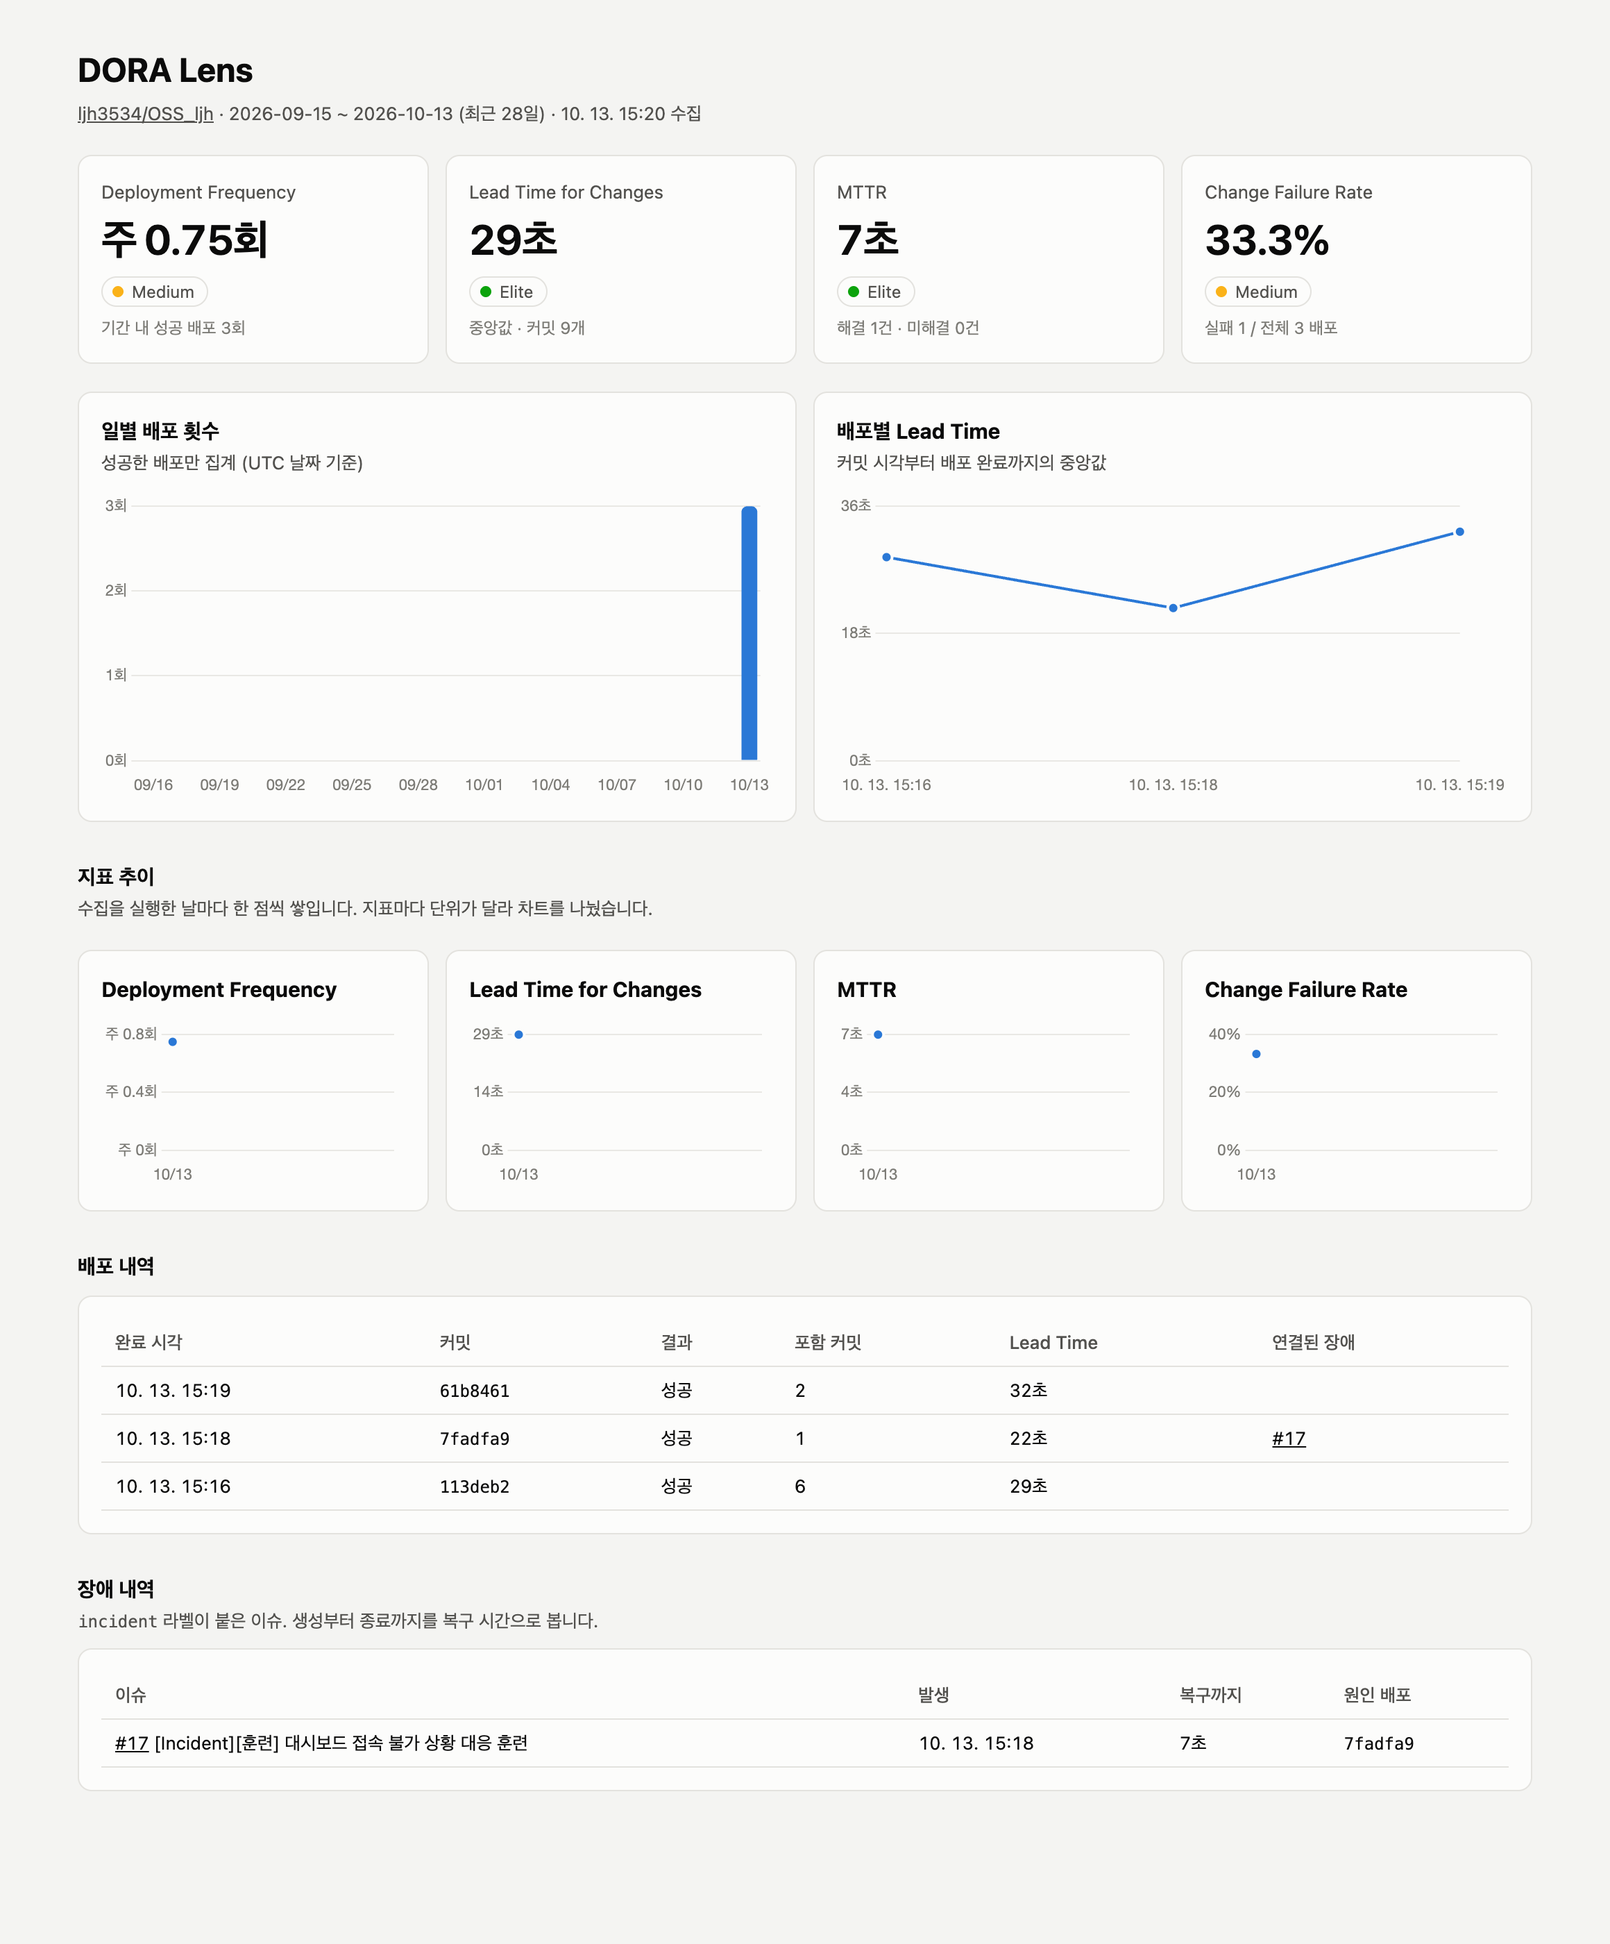
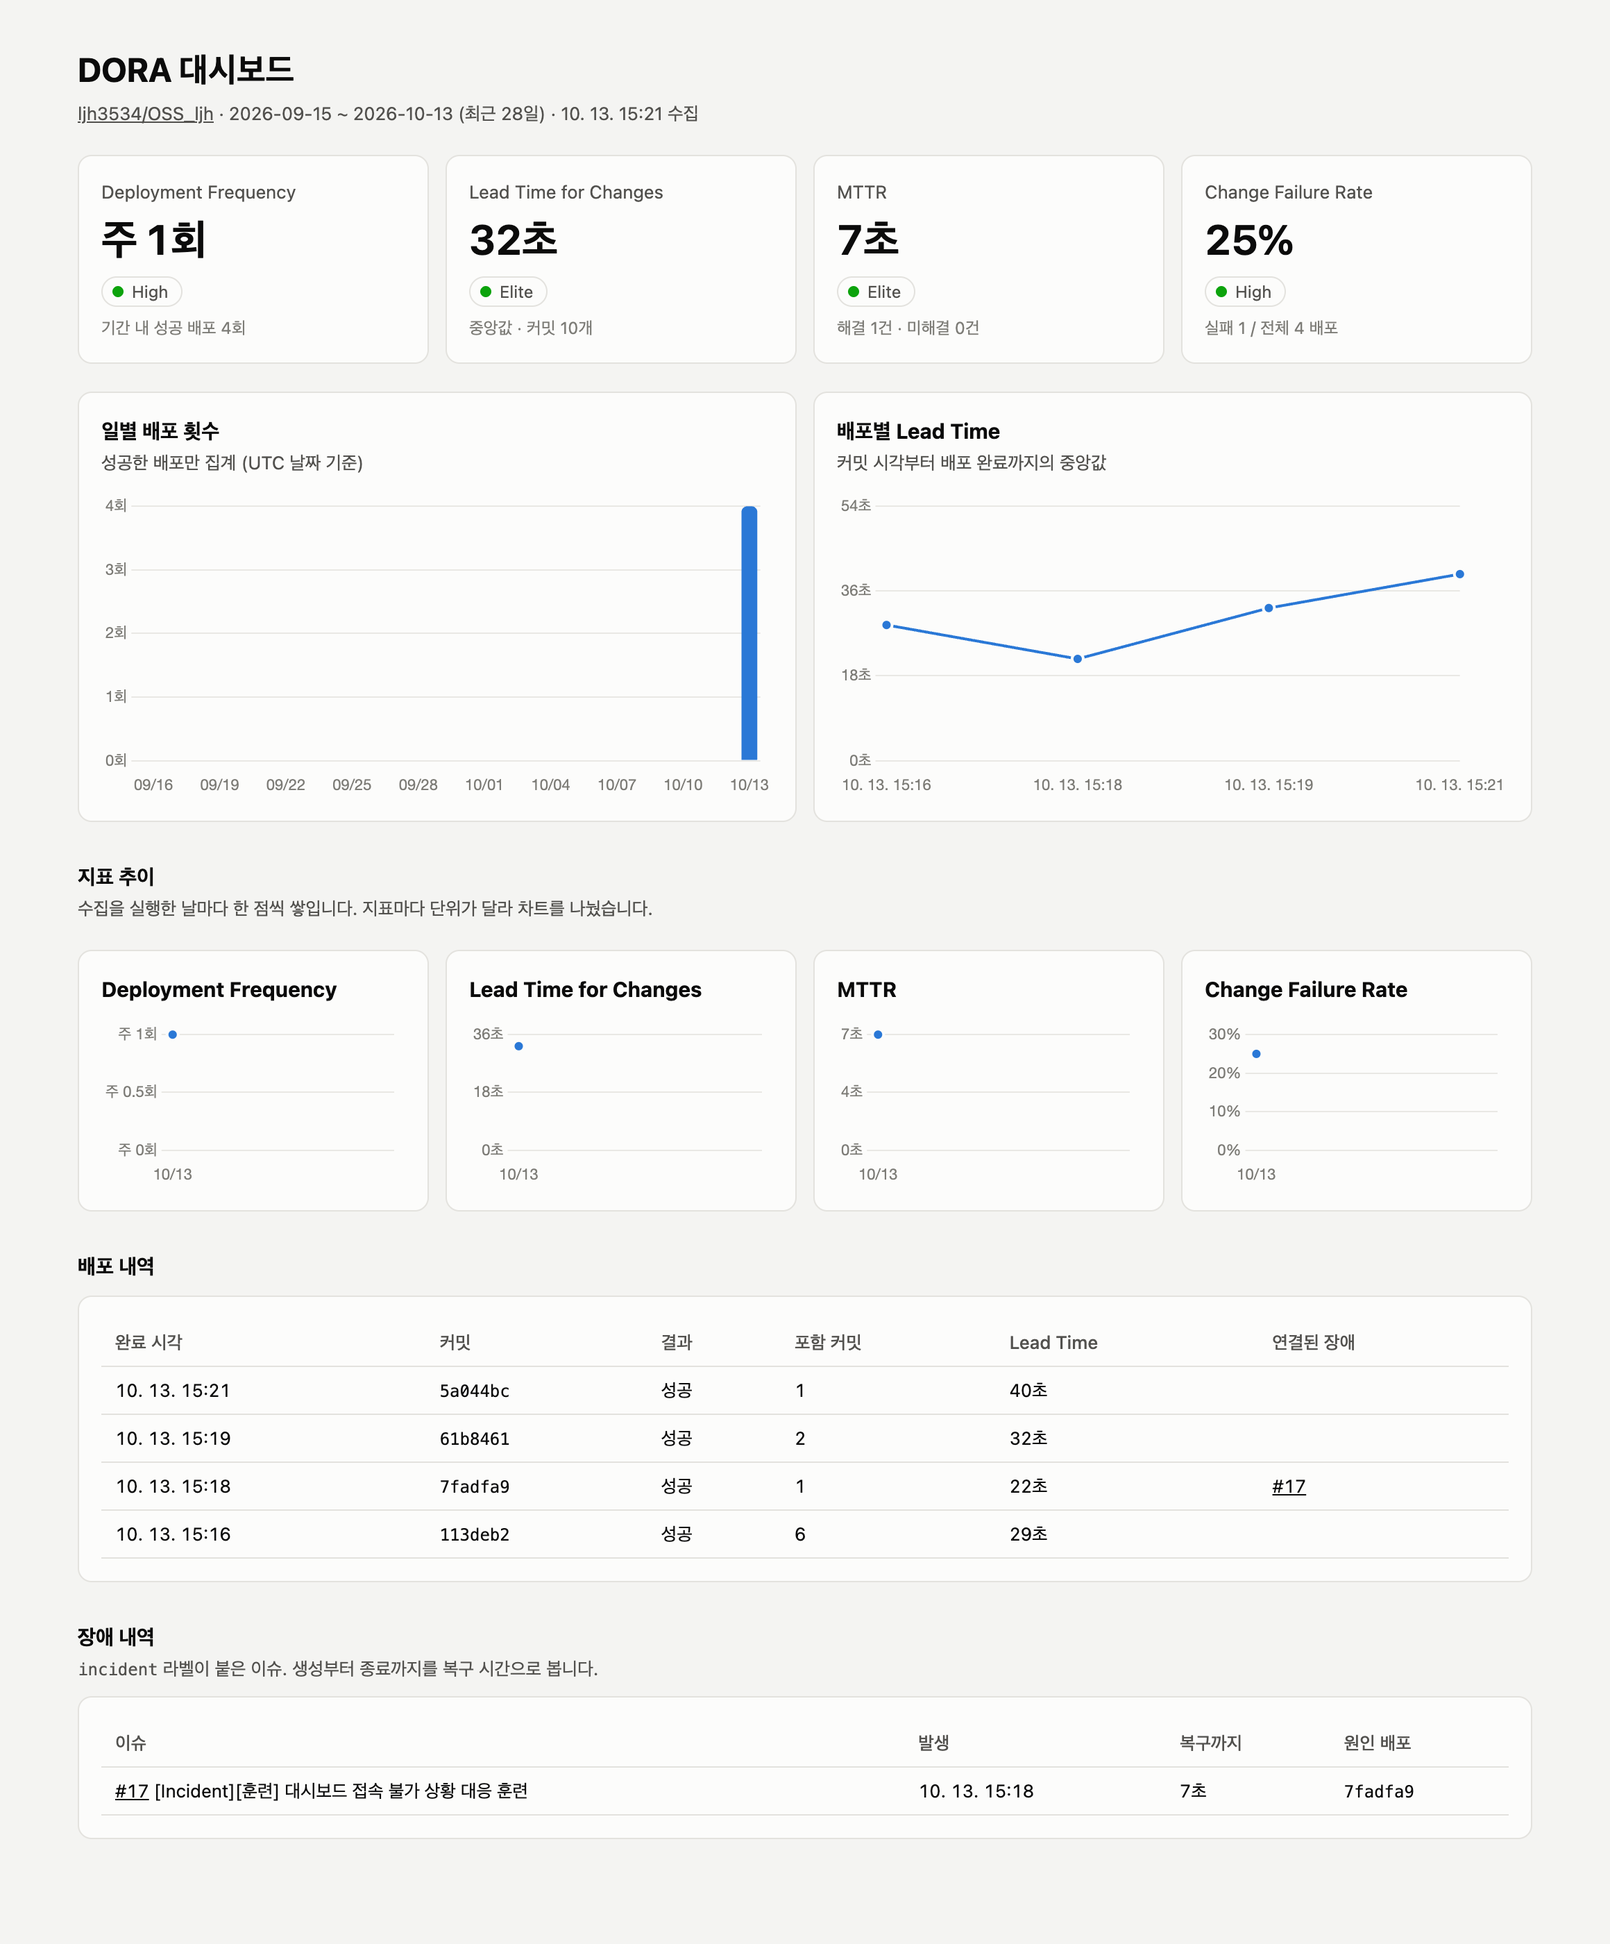
docs: 학기 프로젝트 주제를 TimeFit(시간표 자동 조합 도우미)으로 변경
제안서를 새로 작성하고, README·주차별 문서·대시보드 제목을 새 주제에 맞게 정리했다.
DORA 지표 수집은 TimeFit 개발 저장소를 측정하는 용도로 유지한다.

diff --git a/docs/index.html b/docs/index.html
@@ -3,7 +3,7 @@
 <head>
 <meta charset="utf-8">
 <meta name="viewport" content="width=device-width, initial-scale=1">
-<title>DORA Lens</title>
+<title>DORA 대시보드</title>
 <style>
   :root {
     color-scheme: light;
@@ -55,7 +55,7 @@
 </head>
 <body>
 <main>
-  <h1>DORA Lens</h1>
+  <h1>DORA 대시보드</h1>
   <p class="meta" id="meta">지표를 불러오는 중…</p>
 
   <div class="grid kpis" id="kpis"></div>

diff --git a/week01/PROPOSAL.md b/week01/PROPOSAL.md
@@ -2,52 +2,58 @@
 
 ## 프로젝트명
 
-**DORA Lens** — GitHub 저장소의 DORA 지표 자동 수집·시각화 도구
+**TimeFit** — 시간표 자동 조합 도우미
 
 ## 문제정의
 
-- 소규모 팀이나 학생 프로젝트는 "우리가 얼마나 자주, 얼마나 안정적으로 배포하고 있는가"를 수치가 아니라 감으로 판단한다. 그래서 회고에서 개선할 지점을 구체적으로 짚기 어렵다.
-- 배포 성과를 재는 표준 지표로 DORA 4대 지표(Lead Time for Changes, Deployment Frequency, MTTR, Change Failure Rate)가 있지만, 이를 측정해 주는 상용 도구는 비용과 초기 설정 부담이 커서 작은 팀이 쓰기 어렵다.
-- 계산에 필요한 데이터(커밋, 배포 기록, 이슈)는 이미 GitHub에 쌓여 있다. 다만 여러 API에 흩어져 있어 직접 모으고 계산해야 한다.
+- 수강신청 전 학생들은 듣고 싶은 과목과 분반을 놓고 시간이 겹치지 않는 조합을 손으로 맞춰 본다. 과목이 5~6개, 과목마다 분반이 2~4개만 되어도 경우의 수가 수백 가지라 빠뜨리거나 실수하기 쉽다.
+- "오전 9시 수업은 피하고 싶다", "금요일은 공강이었으면 좋겠다", "강의실 이동이 짧았으면 좋겠다" 같은 조건까지 따지면 머릿속 계산으로는 사실상 최적의 시간표를 찾을 수 없다.
+- 학교 포털은 과목 검색과 신청만 제공하고, 여러 후보 조합을 비교하는 기능은 없다. 학생들은 엑셀이나 종이에 시간표를 여러 장 그려 비교한다.
 
-**목표**: 저장소에 워크플로우 파일 하나만 추가하면 DORA 지표가 주기적으로 수집되고, 대시보드와 주간 보고서로 바로 확인할 수 있게 한다. 별도 서버나 유료 서비스 없이 GitHub Actions와 GitHub Pages만으로 동작해야 한다.
+**목표**: 듣고 싶은 과목과 분반, 원하는 조건을 입력하면 시간이 겹치지 않는 시간표 조합을 모두 찾아 선호도 순으로 보여 주는 웹앱을 만든다. 로그인이나 서버 없이 브라우저만으로 동작해 누구나 바로 쓸 수 있게 한다.
 
 ## 핵심 기능 3개
 
-1. **지표 자동 수집** — GitHub Actions가 스케줄에 따라 GitHub REST API(Deployments, Commits, Issues)를 조회해 DORA 4대 지표를 계산하고 JSON으로 저장한다.
-2. **대시보드 시각화** — 수집된 JSON을 Chart.js로 그려 GitHub Pages에 게시한다. 현재 값, DORA 성능 등급(Elite/High/Medium/Low), 기간별 추이를 한 화면에서 본다.
-3. **주간 보고서 자동 생성** — 매주 지표 요약과 전주 대비 변화를 Markdown 보고서로 만들어 저장소에 커밋하고, 원본 데이터는 워크플로우 아티팩트로 보관한다.
+1. **과목·분반 입력** — 과목명, 분반, 요일·교시, 강의실을 직접 입력하거나 CSV로 한 번에 불러온다. 입력한 목록은 브라우저에 저장된다.
+2. **충돌 없는 조합 생성** — 과목별로 분반 하나씩을 고른 모든 조합 중 시간이 겹치지 않는 것만 찾아낸다. 필수 과목과 선택 과목을 구분해, 학점 범위 안에서 가능한 조합을 만든다.
+3. **조건 기반 정렬·비교** — 공강 요일, 오전 수업 회피, 연강 최소화 등 조건에 점수를 매겨 조합을 정렬하고, 후보 시간표를 나란히 비교한 뒤 이미지로 저장하거나 링크로 공유한다.
 
 ## 기술 스택
 
 | 영역 | 기술 | 선택 이유 |
 |---|---|---|
-| 수집·계산 | Python 3 (표준 라이브러리) | 의존성 설치 없이 어떤 러너에서도 실행 가능 |
-| 자동화 | GitHub Actions | 스케줄 실행, 아티팩트 저장, 저장소 권한 토큰 기본 제공 |
-| 데이터 원천 | GitHub REST API | 배포·커밋·이슈 데이터를 추가 계측 없이 사용 |
-| 시각화 | Chart.js, HTML/CSS | 빌드 과정 없는 정적 페이지로 충분 |
+| 프론트엔드 | TypeScript, Vite, 바닐라 DOM | 빌드가 빠르고 정적 파일로 배포 가능 |
+| 조합 엔진 | TypeScript 모듈 (UI와 분리) | 단위 테스트와 npm 패키지 배포가 쉬움 |
+| 저장 | 브라우저 localStorage, URL 공유 | 서버·로그인 없이 동작 |
+| 테스트 | Vitest, Playwright | 조합 로직 단위 테스트, 화면 E2E 테스트 |
+| CI/CD | GitHub Actions | 테스트·빌드·배포 자동화, DORA 지표 수집 |
 | 호스팅 | GitHub Pages | 무료, 저장소와 같은 곳에서 배포 이력 관리 |
 | 계획·추적 | GitHub Issues / Projects / Milestones | 백로그와 스프린트를 코드와 같은 곳에서 관리 |
 
 ## 16주 마일스톤 초안
 
-| 주차 | 목표 | 산출물 |
-|---|---|---|
-| 1 | 개발 환경 설정, 프로젝트 제안 | 저장소, 제안서 |
-| 2 | DORA 지표 정의 및 수집 프로토타입 | 수집 스크립트, 워크플로우, 대시보드 시안 |
-| 3 | 계획·추적 체계 구축 | GitHub Project, 백로그, 라벨, 마일스톤 |
-| 4 | 수집 로직 정교화 (배포–커밋 매핑, 봇 커밋 제외) | Lead Time 계산 개선 |
-| 5 | 장애(incident) 추적 흐름 정리 | 이슈 템플릿 연동, MTTR/CFR 계산 검증 |
-| 6 | 단위 테스트 및 CI 구성 | 테스트 코드, CI 워크플로우 |
-| 7 | 대시보드 1차 완성 | 추이 차트, 등급 표시, 표 보기 |
-| 8 | **중간 점검** — 자기 저장소에 4주 이상 적용한 결과 회고 | 중간 보고서 |
-| 9 | 다중 저장소 수집 지원 | 설정 파일, 저장소별 비교 화면 |
-| 10 | 재사용 가능한 Action으로 패키징 | `action.yml`, 사용 예시 |
-| 11 | 지표 악화 알림 | 임계값 설정, 이슈 자동 생성 |
-| 12 | 스프린트 지표(Cycle Time, Velocity, Burndown) 통합 | 분석 스크립트, 차트 |
-| 13 | 다른 공개 저장소에 적용해 검증 | 적용 사례 2건 |
-| 14 | 문서화 | 사용 가이드, CONTRIBUTING |
-| 15 | 버그 수정 및 안정화 | v1.0 릴리스 후보 |
-| 16 | **최종 발표** | v1.0 릴리스, 발표 자료 |
+수업의 주차별 실습 주제를 TimeFit 개발에 그대로 적용하는 방향으로 계획했다.
 
-1학기에는 단일 저장소 기준으로 수집부터 보고서까지 완성하는 데 집중하고(1~8주), 이후 다중 저장소·알림·패키징으로 확장한다(9~16주).
+| 주차 | 목표 | 수업 실습과의 연결 |
+|---|---|---|
+| 1 | 개발 환경 설정, 프로젝트 제안 | 개발 환경 설정 및 프로젝트 제안 |
+| 2 | 배포 파이프라인과 DORA 지표 자동 수집 | DORA 메트릭 수집 자동화 |
+| 3 | 백로그·스프린트 구성 | GitHub Projects 계획·추적 |
+| 4 | 과목 입력 화면과 조합 엔진 MVP를 PR 단위로 개발 | GitHub Flow 및 코드리뷰 |
+| 5 | 시간표 데이터 형식, 정렬 기준 등 설계 결정 기록 | Discussions / Wiki / ADR |
+| 6 | 오픈소스 라이선스, CONTRIBUTING, good first issue 정리 | 오픈소스 실습 및 Inner Source |
+| 7 | 빌드·테스트·배포 CI/CD 구성 | GitHub Actions 기본 CI/CD |
+| 8 | **중간 점검** — MVP 공개, 워크플로우 캐싱·재사용 | 워크플로우 실행 최적화 |
+| 9 | 조합 엔진을 npm 패키지로 분리, 의존성 보안 점검 | GitHub Packages 및 의존성 보안 |
+| 10 | 웹 + PWA(모바일 설치형) 배포 | 멀티 플랫폼 배포 자동화 |
+| 11 | 조건 점수·공유 기능을 플래그로 점진 공개 | Feature Flags 및 점진적 배포 |
+| 12 | 조합 엔진 단위 테스트, 화면 E2E 테스트 | Shift-Left 테스트 자동화 |
+| 13 | 다음 학기 수강신청을 준비하는 학생 대상 사용 실험, 지표 수집 | Lean Startup 실험 운영 |
+| 14 | 실험 결과를 반영한 개선 | |
+| 15 | 문서화, 버그 수정, v1.0 릴리스 후보 | |
+| 16 | **최종 발표**, v1.0 릴리스 | |
+
+## 성공 기준
+
+- 과목 6개, 과목당 분반 4개(4,096가지) 입력에서 충돌 없는 조합을 1초 안에 모두 찾는다.
+- 13주차 실험에서 수강생 20명 이상이 실제로 시간표를 만들어 보고, 그중 절반 이상이 "다시 쓰겠다"고 답한다.

diff --git a/week03/README.md b/week03/README.md
@@ -1,10 +1,10 @@
 # 3주차 — GitHub Projects 계획·추적 체계
 
-학기 프로젝트(DORA Lens)의 백로그를 GitHub Issues·Milestones·Projects로 구성했습니다.
+학기 프로젝트 [TimeFit](../week01/PROPOSAL.md)(시간표 자동 조합 도우미)의 백로그를 GitHub Issues·Milestones·Projects로 구성했습니다.
 
 ## 칸반 보드
 
-**[DORA Lens 프로젝트 보드](https://github.com/users/ljh3534/projects/1)**
+**[TimeFit 프로젝트 보드](https://github.com/users/ljh3534/projects/1)**
 
 GitHub Project의 `Status` 필드를 다음 5개 컬럼으로 설정했습니다.
 
@@ -29,7 +29,7 @@ GitHub Project의 `Status` 필드를 다음 5개 컬럼으로 설정했습니다
 |---|---|---|
 | 유형 | `type: bug` `type: feature` `type: docs` `type: chore` | 작업의 성격 (이슈마다 하나) |
 | 우선순위 | `priority: high` `priority: medium` `priority: low` | 스프린트 안에서의 처리 순서 |
-| 영역 | `area: collector` `area: dashboard` `area: ci` | 어느 부분의 작업인지 |
+| 영역 | `area: app` `area: ci` `area: collector` `area: dashboard` | 어느 부분의 작업인지 (앱, 워크플로우, DORA 수집기, DORA 대시보드) |
 | 스토리 포인트 | `sp: 1` `sp: 2` `sp: 3` `sp: 5` | 작업 크기 — Velocity·Burndown 계산에 사용 |
 | 운영 | `incident` | 운영 장애 — 2주차의 MTTR·Change Failure Rate 계산에 사용 |
 
@@ -37,12 +37,14 @@ GitHub Project의 `Status` 필드를 다음 5개 컬럼으로 설정했습니다
 
 | 마일스톤 | 기간 | 목표 |
 |---|---|---|
-| [Sprint 1 — 수집·대시보드 MVP](https://github.com/ljh3534/OSS_ljh/milestone/1) | 10/13 ~ 10/26 | 지표 자동 수집, 대시보드, 주간 보고서 |
-| [Sprint 2 — 정확도·확장](https://github.com/ljh3534/OSS_ljh/milestone/2) | 10/27 ~ 11/09 | 테스트, 다중 저장소, 알림 |
+| [Sprint 1 — 개발 인프라 (배포·DORA·백로그)](https://github.com/ljh3534/OSS_ljh/milestone/1) | 10/13 ~ 10/26 | 배포 파이프라인, DORA 지표 자동 수집, 이슈 템플릿·라벨 |
+| [Sprint 2 — TimeFit MVP](https://github.com/ljh3534/OSS_ljh/milestone/2) | 10/27 ~ 11/09 | 과목 입력, 충돌 없는 조합 생성, 시간표 표시 |
 
 ## 백로그
 
 [전체 이슈 목록](https://github.com/ljh3534/OSS_ljh/issues?q=is%3Aissue)에서 확인할 수 있습니다. 스프린트에 넣지 않은 이슈는 마일스톤 없이 Backlog에 둡니다.
+
+처음에는 DORA 지표 도구를 학기 프로젝트로 제안했다가 TimeFit으로 주제를 바꿨습니다. 그래서 기존 주제의 확장 이슈(#9~#15)는 "not planned"로 닫고 보드에서 뺐으며, 이미 완료한 개발 인프라 작업(#1~#8)은 Sprint 1로 남겼습니다.
 
 ## (선택과제) Cycle Time · Velocity · Burndown
 

diff --git a/README.md b/README.md
@@ -1,6 +1,9 @@
 # OSS_ljh
 
-오픈소스SW 수업 과제 저장소입니다. 1~3주차 과제를 하나의 학기 프로젝트(**DORA Lens** — GitHub 저장소의 DORA 지표를 자동 수집·시각화하는 도구)로 이어서 진행합니다.
+오픈소스SW 수업 과제 저장소입니다. 학기 프로젝트 **TimeFit**(시간표 자동 조합 도우미)을 개발하면서, 주차별 실습(DORA 지표, GitHub Projects, CI/CD 등)을 이 저장소에 적용합니다.
+
+- 프로젝트 제안서: [week01/PROPOSAL.md](week01/PROPOSAL.md)
+- 프로젝트 보드: <https://github.com/users/ljh3534/projects/1>
 
 | 주차 | 과제 | 결과물 |
 |---|---|---|
@@ -21,7 +24,7 @@ _2026-09-15 ~ 2026-10-13 기준, 자동 생성됨 · [대시보드](https://ljh3
 | Change Failure Rate | 25% (1/4) | High | — |
 <!-- DORA:END -->
 
-[![DORA Lens 대시보드](docs/assets/dashboard.png)](https://ljh3534.github.io/OSS_ljh/)
+[![DORA 대시보드](docs/assets/dashboard.png)](https://ljh3534.github.io/OSS_ljh/)
 
 지표 정의와 수집 방식은 [week02/README.md](week02/README.md)에 정리했습니다.
 
@@ -31,7 +34,7 @@ _2026-09-15 ~ 2026-10-13 기준, 자동 생성됨 · [대시보드](https://ljh3
 .github/
   ISSUE_TEMPLATE/      Bug / Feature 이슈 템플릿
   workflows/           배포(deploy.yml), DORA 수집(dora-metrics.yml)
-docs/                  Chart.js 대시보드 (GitHub Pages로 배포)
+docs/                  DORA 지표 대시보드 (GitHub Pages로 배포)
 reports/weekly/        자동 생성되는 주간 DORA 보고서
 scripts/               지표 수집·분석 스크립트 (Python 표준 라이브러리만 사용)
 week01/ week02/ week03/  주차별 과제 설명

diff --git a/week02/README.md b/week02/README.md
@@ -1,12 +1,12 @@
 # 2주차 — DORA 메트릭 수집 자동화
 
-GitHub Actions로 이 저장소의 DORA 4대 지표를 자동 수집하고, Chart.js 대시보드와 주간 보고서로 보여 줍니다.
+GitHub Actions로 이 저장소(TimeFit 개발 저장소)의 DORA 4대 지표를 자동 수집하고, Chart.js 대시보드와 주간 보고서로 보여 줍니다. TimeFit을 개발하는 동안 배포 성과를 계속 측정하는 용도입니다.
 
 - 대시보드: <https://ljh3534.github.io/OSS_ljh/>
 - 워크플로우 실행 기록: <https://github.com/ljh3534/OSS_ljh/actions/workflows/dora-metrics.yml>
 - 주간 보고서: [reports/weekly](../reports/weekly)
 
-![DORA Lens 대시보드](../docs/assets/dashboard.png)
+![DORA 대시보드](../docs/assets/dashboard.png)
 
 ## 구성
 
